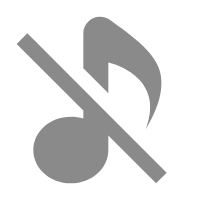
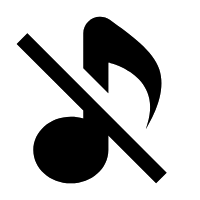
fix: 公用组件样式调整, 除去无用变量

Changed region(s): [[0.09, 0.15, 0.84, 0.93], [0.39, 0.06, 0.81, 0.66]]

diff --git a/components/music/music.jsx b/components/music/music.jsx
@@ -1,12 +1,10 @@
 import React from 'react'
 import './index.less'
-import on from './on.png'
-import off from './off.png'
 
 export default class Music extends React.Component {
     constructor(props) {
         super(props);
-        this.params = Object.assign({
+        Object.assign({
             // preload: true,
             autoPlay: true,
             loop: true,
@@ -18,7 +16,7 @@ export default class Music extends React.Component {
     }
 
     componentDidMount() {
-        const audio = this.refs.audio.querySelector('audio');
+        const audio = this.refs.audio.querySelector('audio.bgm');
         // dont work on chrome mobile
         // for ios? not try yet
         if (!!audio && !this.state.playing) {
@@ -29,7 +27,7 @@ export default class Music extends React.Component {
     }
 
     handlePlayError() {
-        const count = this.params.error;
+        const count = this.props.error;
         if (this.error > count) {
             const audio = this.refs.audio.querySelector('audio');
             this.refs.audio.removeChild(audio)
@@ -48,7 +46,7 @@ export default class Music extends React.Component {
         $(audio).removeClass('active');
 
         // if dont support loop
-        if (this.state.playing && this.params.loop) {
+        if (this.state.playing && this.props.loop) {
             const target = audio.querySelector('audio');
             if (!target) return;
             target.load();
@@ -65,10 +63,12 @@ export default class Music extends React.Component {
     }
 
     render() {
-        return <div className="music" ref="audio"
+        const {...otherProps} = this.props;
+        return <div className={this.state.playing ? 'music active' : 'music'} ref="audio"
                     onClick={this.handleAudioClick.bind(this)}>
-            <img src={this.state.playing ? on : off} alt="playing"/>
-            <audio {...this.params} onError={this.handlePlayError.bind(this)} onPlaying={this.handlePlaying.bind(this)}
+            <audio className="bgm" {...otherProps}
+                   onError={this.handlePlayError.bind(this)}
+                   onPlaying={this.handlePlaying.bind(this)}
                    onPause={this.handlePause.bind(this)}/>
         </div>
     }

diff --git a/components/music/index.less b/components/music/index.less
@@ -10,20 +10,16 @@
 .music {
   position: absolute;
   z-index: 1000;
-  width: 3rem;
-  height: 3rem;
-  border: 0.2rem solid #8a8a8a;
+  width: 2.5rem;
+  height: 2.5rem;
+  border: 0.2rem solid black;
   border-radius: 5rem;
   display: flex;
-
-  img {
-    margin: auto;
-    display: block;
-    width: 2.5rem;
-    height: 2.5rem;
-  }
+  background-image: url(./off.png);
+  opacity: .6;
 
   &.active {
+    background-image: url(./on.png);
     animation: rotate 5s linear infinite;
   }
 }

diff --git a/components/overlay/overlay.less b/components/overlay/overlay.less
@@ -1,9 +1,13 @@
 .overlay {
   position: absolute;
+  top: 0;
+  left: 0;
   z-index: -1;
   width: 100%;
   height: 100%;
-  background-color: rgba(0, 0, 0, .5);
+  background-color: rgba(0, 0, 0, .8);
+  background-image: url(./fxtip.png);
+  background-size: contain;
   opacity: 0;
   transition: all .3s;
 }
